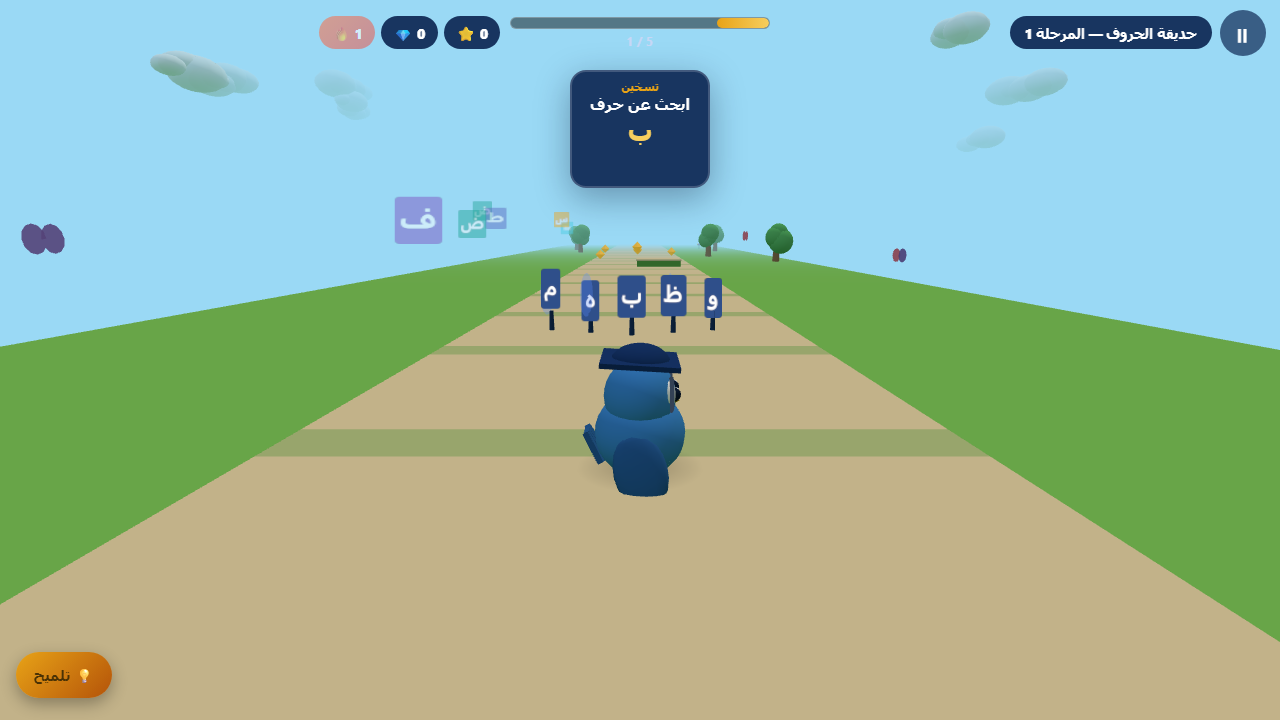
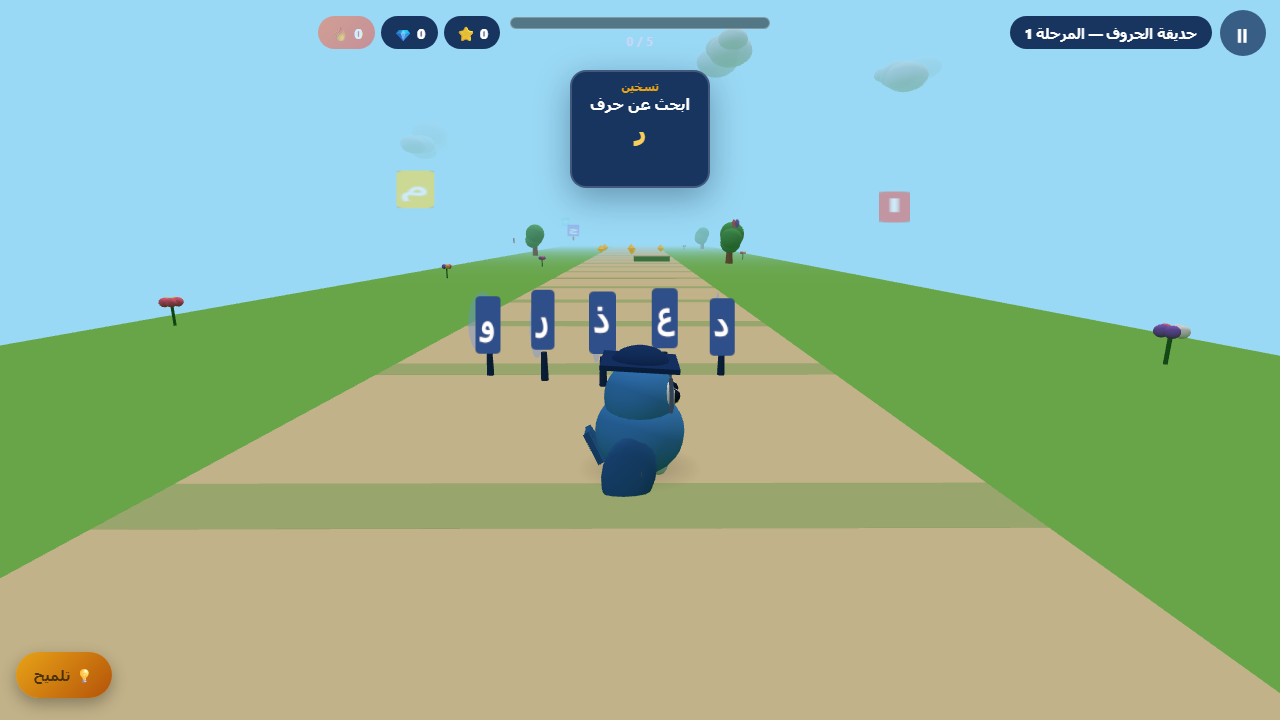
fix(play-zone): accept the 9 games the UI already offers (reviewed colleague batch)
Production bug, verified live on 01-10-2026: PlayZone.jsx has carried 9 game
codes since 26-09 (QUICK_MATH, WORD_BUILD, MEMORY + SCIENCE_QUIZ,
SCIENCE_CLASSIFY, EXPERIMENT_STEPS, ARABIC_SCRAMBLE, SENTENCE_BUILDER,
FRENCH_MATCH), but the backend whitelist was last touched on 20-08 and still
only knew the original 3. Every finished round of the 6 newer games returned
400 and the score/XP was lost: POST /api/teacher/student/games as
explorer@test.tn with SCIENCE_QUIZ -> HTTP 400 before this commit.

Backend
- routes/playZone.js: VALID_GAMES grows to the 9 UI codes; the switch-based
  gameLabel() becomes a GAME_LABELS lookup (same Arabic labels, unknown code
  falls back to the raw code); the swagger request-body enum now lists all 9.
- validators/playZone.js: GAME_CODES is exported once and drives the zod enum.
- Daily limit (10), XP amount, auth, score clamps and leaderboard untouched;
  GameResult.game is a plain String column, so no migration is needed.
- tests/playzone-games.test.js (new, 5 tests): parses the UI list, the route
  whitelist and the validator whitelist as source text and fails whenever the
  three drift apart - the exact class of bug fixed here.

Reviewed colleague changes, all verified on this tree
- StudentTwin.jsx and knowledge-garden/src/engine/world.js: mojibake repairs
  inside comments only (em-dashes/arrows), zero behaviour change.
- knowledge-garden/screenshots/gameplay.png: refreshed browser-test capture.
[…]

diff --git a/frontend/public/games/knowledge-garden/src/engine/world.js b/frontend/public/games/knowledge-garden/src/engine/world.js
@@ -1,5 +1,5 @@
 /**
- * Ø§Ù„Ø¹ÙˆØ§Ù„Ù… â€” procedural 3D worlds, geometry only (no external assets).
+ * Ø§Ù„Ø¹ÙˆØ§Ù„Ù… — procedural 3D worlds, geometry only (no external assets).
  *
  * Every world gets its own palette, sky, ground treatment and decor recipe, so
  * the student always knows where they are from one screenshot. The course is
@@ -215,7 +215,7 @@ export class World {
     return { x, top, z, hw, hd };
   }
 
-  /** A platform that slides sideways â€” used from the castle onwards. */
+  /** A platform that slides sideways — used from the castle onwards. */
   #movingPlatform(x, y, z) {
     const t = this.theme;
     const mesh = new THREE.Mesh(new THREE.BoxGeometry(7, 0.8, 5), lambert(t.accent));
@@ -300,7 +300,7 @@ export class World {
     this.group.add(g);
   }
 
-  /** A giant floating letter â€” the signature of the Letter Garden. */
+  /** A giant floating letter — the signature of the Letter Garden. */
   giantLetter(x, z) {
     const letter = pick(LETTERS);
     // Translucent and floating: a garden ornament, not a white billboard.
@@ -329,7 +329,7 @@ export class World {
     (this.butterflies ||= []).push(g);
   }
 
-  /** A giant book standing like a tree â€” the Word Forest signature. */
+  /** A giant book standing like a tree — the Word Forest signature. */
   bigBook(x, z) {
     const g = new THREE.Group();
     const cover = new THREE.Mesh(
@@ -383,7 +383,7 @@ export class World {
     this.group.add(g);
   }
 
-  /** A house shaped like a closed book â€” the Sentence Village signature. */
+  /** A house shaped like a closed book — the Sentence Village signature. */
   bookHouse(x, z) {
     const g = new THREE.Group();
     const walls = new THREE.Mesh(
@@ -435,7 +435,7 @@ export class World {
     this.group.add(rail);
   }
 
-  /** A castle tower with battlements â€” the Knowledge Castle signature. */
+  /** A castle tower with battlements — the Knowledge Castle signature. */
   tower(x, z) {
     const g = new THREE.Group();
     const h = rand(14, 22);
@@ -496,7 +496,7 @@ export class World {
     this.group.add(deck);
   }
 
-  /** A jagged rock formation â€” the Challenge Valley signature. */
+  /** A jagged rock formation — the Challenge Valley signature. */
   rock(x, z) {
     const g = new THREE.Group();
     for (let i = 0; i < 3; i++) {
@@ -539,7 +539,7 @@ export class World {
     (this.lavaPools ||= []).push(pool);
   }
 
-  /** A modern tower â€” the Knowledge City signature. */
+  /** A modern tower — the Knowledge City signature. */
   skyscraper(x, z) {
     const h = rand(18, 40);
     const g = new THREE.Group();
@@ -607,7 +607,7 @@ export class World {
     this.group.add(jet);
   }
 
-  /** A palm tree â€” the Champions Island signature. */
+  /** A palm tree — the Champions Island signature. */
   palm(x, z) {
     const g = new THREE.Group();
     const trunk = new THREE.Mesh(new THREE.CylinderGeometry(0.5, 0.8, 11, 8), lambert(0xa1662f));
@@ -664,7 +664,7 @@ export class World {
     cup.position.set(x, 8, z);
   }
 
-  /** A floating crystal â€” pure decoration, purely pretty. */
+  /** A floating crystal — pure decoration, purely pretty. */
   crystal(x, z) {
     const color = pick([0xff6f91, 0x8e6bd6, 0x00bcd4]);
     const c = new THREE.Mesh(
@@ -692,7 +692,7 @@ export class World {
     const g = new THREE.Group();
 
     const colors = [0x8e6bd6, 0xe8544f, 0x00bcd4, 0xff7043, 0x4caf50];
-    // A rounded body with two eyes â€” readable as a creature at a glance.
+    // A rounded body with two eyes — readable as a creature at a glance.
     const body = new THREE.Mesh(new THREE.SphereGeometry(5, 22, 18), lambert(colors[0]));
     body.position.y = 7;
     g.add(body);
@@ -797,7 +797,7 @@ export class World {
 }
 
 /**
- * Decor recipe â†’ private method name.
+ * Decor recipe → private method name.
  * Keeps `#decor` readable and means a new world only needs a builder here.
  */
 const DECOR_BUILDERS = {

diff --git a/backend/tests/playzone-games.test.js b/backend/tests/playzone-games.test.js
@@ -1,0 +1,53 @@
+import { describe, it, expect } from 'vitest';
+import { readFileSync } from 'node:fs';
+import path from 'node:path';
+import { gameResultSchema, GAME_CODES as VALIDATOR_GAMES } from '../src/validators/playZone.js';
+
+/**
+ * Regression guard for the 01-10-2026 outage of PlayZone scoring:
+ * the UI offered 9 games (QUICK_MATH, WORD_BUILD, MEMORY + science/arabic/french)
+ * while the backend whitelist still only knew the original 3, so every finished
+ * round of the 6 newer games came back 400 and the score was lost.
+ * Read the three whitelists as source text so a game added to the UI without the
+ * backend (or vice versa) fails the suite instead of production.
+ */
+const repoRoot = path.resolve(process.cwd(), '..');
+
+function readArray(file, name) {
+  const src = readFileSync(path.join(repoRoot, file), 'utf8');
+  const match = src.match(new RegExp(`${name}\\s*=\\s*\\[([^\\]]*)\\]`));
+  if (!match) throw new Error(`${name} array not found in ${file}`);
+  return [...match[1].matchAll(/'([A-Z_]+)'/g)].map((m) => m[1]);
+}
+
+const frontendGames = readArray('frontend/src/pages/student/PlayZone.jsx', 'GAME_CODES');
+const routeGames = readArray('backend/src/routes/playZone.js', 'VALID_GAMES');
+
+describe('PlayZone game whitelists stay in sync', () => {
+  it('reads a non-empty game list from the UI and from the route', () => {
+    expect(frontendGames.length).toBeGreaterThanOrEqual(3);
+    expect(routeGames.length).toBeGreaterThanOrEqual(3);
+    expect(frontendGames).toEqual(expect.arrayContaining(['QUICK_MATH', 'WORD_BUILD', 'MEMORY']));
+  });
+
+  it('every game the UI offers passes the backend validator', () => {
+    for (const game of frontendGames) {
+      const parsed = gameResultSchema.safeParse({ game, score: 5, correct: 5, total: 8 });
+      expect(parsed.success, `validator rejects UI game ${game}`).toBe(true);
+    }
+  });
+
+  it('the route whitelist covers every game the UI offers', () => {
+    for (const game of frontendGames) {
+      expect(routeGames, `route rejects UI game ${game}`).toContain(game);
+    }
+  });
+
+  it('the route whitelist and the validator whitelist agree', () => {
+    expect(new Set(routeGames)).toEqual(new Set(VALIDATOR_GAMES));
+  });
+
+  it('an unknown game is still rejected', () => {
+    expect(gameResultSchema.safeParse({ game: 'NOT_A_GAME' }).success).toBe(false);
+  });
+});

diff --git a/frontend/src/pages/student/StudentTwin.jsx b/frontend/src/pages/student/StudentTwin.jsx
@@ -70,7 +70,7 @@ export default function StudentTwin() {
         ))}
       </div>
 
-      {/* â”€â”€ Daily Challenge â”€â”€ */}
+      {/* ── Daily Challenge ── */}
       <div className="twin-v3__challenge">
         <div className="twin-v3__challenge-head">
           <span className="sparkle-wrap"><span className="material-icons" style={{ color: '#E8A317' }}>emoji_events</span></span>
@@ -102,7 +102,7 @@ export default function StudentTwin() {
         </div>
       </div>
 
-      {/* â”€â”€ Stats Cards â”€â”€ */}
+      {/* ── Stats Cards ── */}
       <div className="twin-v3__stats">
         <div className="twin-v3__stat-card twin-v3__stat-card--gold">
           <span className="material-icons">emoji_events</span>
@@ -124,7 +124,7 @@ export default function StudentTwin() {
         </div>
       </div>
 
-      {/* â”€â”€ Strengths & Weaknesses â”€â”€ */}
+      {/* ── Strengths & Weaknesses ── */}
       <div className="twin-v3__sub-grid">
         <div className="twin-v3__analysis">
           <h4><span className="material-icons" style={{ color: '#10b981' }}>trending_up</span> {t('studentSpace.twin.strengths')}</h4>
@@ -136,7 +136,7 @@ export default function StudentTwin() {
         </div>
       </div>
 
-      {/* â”€â”€ Badges & Leaderboard â”€â”€ */}
+      {/* ── Badges & Leaderboard ── */}
       <div className="twin-v3__sub-grid" style={{ marginTop: '1.2rem' }}>
         <Card title={t('studentSpace.twin.badgesCount', { n: badges.length })} icon="military_tech">
           {badges.length === 0 ? (
@@ -175,7 +175,7 @@ export default function StudentTwin() {
         )}
       </div>
 
-      {/* â”€â”€ Activity Log â”€â”€ */}
+      {/* ── Activity Log ── */}
       <div style={{ marginTop: '1.2rem' }}>
         <Card title={t('studentSpace.twin.activityLog')} icon="history">
           {activities.length === 0 ? (

diff --git a/backend/src/routes/playZone.js b/backend/src/routes/playZone.js
@@ -9,20 +9,27 @@ import { ApiError, asyncHandler } from '../middleware/errorHandler.js';
 const router = Router();
 router.use(authMiddleware);
 
-const VALID_GAMES = ['QUICK_MATH', 'WORD_BUILD', 'MEMORY'];
+const VALID_GAMES = [
+  'QUICK_MATH', 'WORD_BUILD', 'MEMORY',
+  'SCIENCE_QUIZ', 'SCIENCE_CLASSIFY', 'EXPERIMENT_STEPS',
+  'ARABIC_SCRAMBLE', 'SENTENCE_BUILDER', 'FRENCH_MATCH'
+];
 export const GAME_DAILY_LIMIT = 10;
 
+const GAME_LABELS = {
+  QUICK_MATH: 'الحساب السريع',
+  WORD_BUILD: 'تركيب الكلمات',
+  MEMORY: 'اختبار الذاكرة',
+  SCIENCE_QUIZ: 'اختبار العلوم',
+  SCIENCE_CLASSIFY: 'تصنيف العلوم',
+  EXPERIMENT_STEPS: 'ترتيب التجربة',
+  ARABIC_SCRAMBLE: 'تكعيب الكلمة',
+  SENTENCE_BUILDER: 'صانع الجمل',
+  FRENCH_MATCH: 'مطابقة الفرنسية'
+};
+
 function gameLabel(game) {
-  switch (game) {
-    case 'QUICK_MATH':
-      return 'الحساب السريع';
-    case 'WORD_BUILD':
-      return 'تركيب الكلمات';
-    case 'MEMORY':
-      return 'اختبار الذاكرة';
-    default:
-      return game;
-  }
+  return GAME_LABELS[game] || game;
 }
 
 function dayStart() {
@@ -90,7 +97,7 @@ router.get(
  *             type: object
  *             required: [game]
  *             properties:
- *               game: { type: string, enum: [QUICK_MATH, WORD_BUILD, MEMORY] }
+ *               game: { type: string, enum: [QUICK_MATH, WORD_BUILD, MEMORY, SCIENCE_QUIZ, SCIENCE_CLASSIFY, EXPERIMENT_STEPS, ARABIC_SCRAMBLE, SENTENCE_BUILDER, FRENCH_MATCH] }
  *               score: { type: integer }
  *               correct: { type: integer }
  *               total: { type: integer }

diff --git a/backend/src/validators/playZone.js b/backend/src/validators/playZone.js
@@ -1,7 +1,13 @@
 import { z } from 'zod';
 
+export const GAME_CODES = [
+  'QUICK_MATH', 'WORD_BUILD', 'MEMORY',
+  'SCIENCE_QUIZ', 'SCIENCE_CLASSIFY', 'EXPERIMENT_STEPS',
+  'ARABIC_SCRAMBLE', 'SENTENCE_BUILDER', 'FRENCH_MATCH'
+];
+
 export const gameResultSchema = z.object({
-  game: z.enum(['QUICK_MATH', 'WORD_BUILD', 'MEMORY'], { error: 'لعبة غير صالحة' }),
+  game: z.enum(GAME_CODES, { error: 'لعبة غير صالحة' }),
   score: z.coerce.number().int().min(0).default(0),
   correct: z.coerce.number().int().min(0).default(0),
   total: z.coerce.number().int().min(0).default(0),

diff --git a/frontend/scripts/make-covers.py b/frontend/scripts/make-covers.py
@@ -4,7 +4,7 @@ from PIL import Image
 import os, shutil
 
 SRC = r"D:\livres eleves\صور-غلاف-الكتب"
-DST = r"D:\mon projet\rafiqi-كامل-محدث-02-09-2026\rafiqi\frontend\public\covers"
+DST = os.path.join(os.path.dirname(os.path.dirname(os.path.abspath(__file__))), "public", "covers")
 os.makedirs(DST, exist_ok=True)
 
 mapping = {
